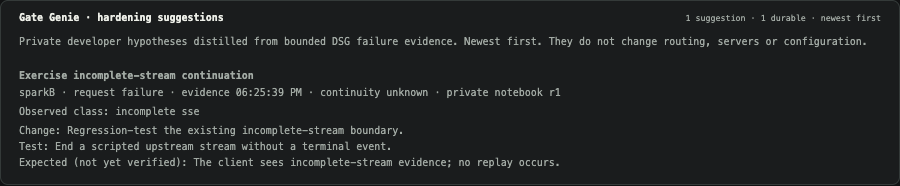
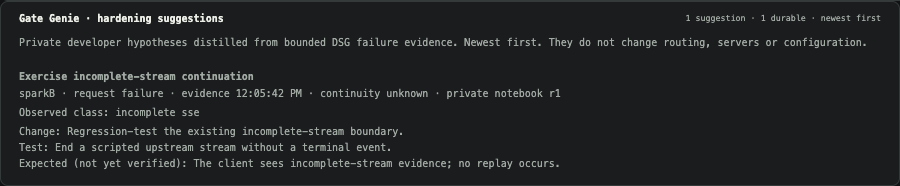
Move hardening suggestions into the Genie tab

diff --git a/ds4-gateway/ui/index.html b/ds4-gateway/ui/index.html
@@ -8,7 +8,6 @@
 <section id="health-wire" class="health-wire" aria-label="Gate Genie fleet health headlines" data-level="unknown">
 <div class="health-wire-window" tabindex="0" aria-label="Server health headlines; focus to pause scrolling" aria-live="off"><div id="health-wire-track" class="health-wire-track"><div id="health-wire-text" class="health-wire-group">Connecting to Gate Genie…</div><div id="health-wire-copy" class="health-wire-group" aria-hidden="true"></div></div></div>
 </section>
-<details id="genie-hardening" class="genie-hardening" hidden><summary><span>Gate Genie · hardening suggestions</span><small id="genie-hardening-status">No evidence-backed suggestions yet</small></summary><p class="muted">Private developer hypotheses distilled from bounded DSG failure evidence. Newest first. They do not change routing, servers or configuration.</p><div id="genie-hardening-items" aria-live="polite"></div></details>
 <section id="learning-milestones" class="learning-milestones" aria-labelledby="learning-milestones-title" hidden><h2 id="learning-milestones-title">Gate Genie · learning milestones</h2><p class="muted">Verified prediction improvements. Kept until dismissed; dismissing does not change the model.</p><div id="learning-milestone-items" aria-live="polite"></div></section>
 <nav class="workspace-tabs" role="tablist" aria-label="Dwarf Star Gate views">
 <button id="tab-fleet" type="button" role="tab" aria-selected="true" aria-controls="view-fleet" tabindex="0" data-workspace-tab="fleet">Fleet</button>
@@ -27,6 +26,7 @@
 </section>
 <section id="view-genie" class="workspace-view" role="tabpanel" aria-labelledby="tab-genie" data-workspace-view="genie" hidden>
 <section class="insights genie-insights"><article class="genie-panel"><h2>Gate Genie <small id="genie-mode">observation only</small></h2><p id="genie-status" role="status">Checking connection</p><div class="genie-controls"><button id="genie-toggle" class="button" type="button" disabled>Enable</button><select id="genie-source" aria-label="Gate Genie inference source" disabled><option value="primary">Dedicated preferred</option><option value="pool">DSG pool only</option></select><button id="genie-review" class="button" type="button" disabled>Review now</button></div><form id="genie-chat"><label for="genie-question">Ask about this fleet</label><div class="genie-controls"><input id="genie-question" maxlength="2000" placeholder="What should I investigate?" autocomplete="off"><button id="genie-send" type="submit" class="button" disabled>Ask</button></div></form><p class="muted">A configured Genie starts on and waits at least 5 minutes after one review finishes before starting another. A question takes priority over a routine review; an evidence-gated action review finishes first. If the dedicated provider fails or times out, one unpinned pool request may borrow any available DSG slot. Bounded recovery still requires its separate switch, and private notebook notes stay local.</p><section id="genie-action-ledger" class="genie-action-ledger" aria-labelledby="genie-action-ledger-title" title="Proven executor receipts and provider fallbacks only. Recovery and predictor history is durable; queue history is bounded; provider fallback covers this dashboard run."><div class="genie-ledger-heading"><div><h3 id="genie-action-ledger-title">Action ledger</h3><p id="genie-action-summary" class="muted">No evidenced Genie actions yet</p></div><label><span class="visually-hidden">Filter Gate Genie actions</span><select id="genie-action-filter" aria-label="Filter Gate Genie actions"><option value="all">All actions</option><option value="provider">Pool commandeering</option><option value="recovery">Recovery</option><option value="routing">Queue moves</option><option value="predictor">Predictor</option><option value="attention">Needs attention</option></select></label></div><ol id="genie-action-items" class="genie-action-items" tabindex="0" aria-label="Latest 30 available Genie actions, newest first"><li class="muted">Waiting for action evidence.</li></ol></section><div id="genie-reports" aria-live="polite"></div></article></section>
+<details id="genie-hardening" class="genie-hardening" hidden><summary><span>Gate Genie · hardening suggestions</span><small id="genie-hardening-status">No evidence-backed suggestions yet</small></summary><p class="muted">Private developer hypotheses distilled from bounded DSG failure evidence. Newest first. They do not change routing, servers or configuration.</p><div id="genie-hardening-items" aria-live="polite"></div></details>
 <section class="worker-management" aria-labelledby="recovery-title"><h2 id="recovery-title">DS4 service recovery</h2>
 <p class="muted"><a id="recovery-enrollment-guide" href="https://github.com/JordiPosthumus/dwarf-star-gate/blob/main/docs/agent-recovery-enrollment.md" target="_blank" rel="noopener noreferrer">Setup guide for your agent ↗</a> · Connecting an endpoint does not grant restart permission. Start with inspection and a proposal.</p>
 <p id="recovery-status" role="status">Checking recovery policy</p><div class="recovery-policy-controls"><button id="recovery-toggle" type="button" class="button" disabled>Enable automatic recovery</button><button id="recovery-handback-toggle" type="button" class="button" disabled>Disable verified profile hand-back</button></div><p>Opt-in, exactly enrolled services only. GG and the deterministic watcher share one guarded runner. One recovery at a time, one service action per failed instance or stopped epoch, 30-minute cooldown. Context, thinking, model and disk-cache settings stay unchanged. A service action loses RAM-resident caches.</p><p class="muted">Verified profile hand-back starts enabled, but remains dormant unless service recovery itself is enabled. It may adopt a repeatedly inspected changed profile only on the same enrolled machine/service, with no admitted work and either a proven replacement instance or current fatal evidence; generation and two cold-to-warm conversations must pass before readmission. A pause, named maintenance lock or agent hold always blocks it. Turning either policy off stops new automatic actions; an issued start or restart still finishes reconciliation and verification.</p><div id="recovery-workers"></div><div id="recovery-actions" aria-live="polite"></div></section>

diff --git a/docs/screenshots.md b/docs/screenshots.md
@@ -3,11 +3,12 @@
 Refreshed 2026-09-04 from the checked-in synthetic demo and current UI assets.
 Analytics refreshed 2026-09-05 to distinguish known sessions from requests with
 missing identity; the values remain fictional.
+Layout refreshed 2026-09-06: hardening suggestions now belong to the Gate Genie tab.
 These are actual browser captures of fictional data, not edited production
 screenshots, benchmark results, a live incident report or a promoted model.
 
-- `dashboard-overview.png`: branding, persistent health wire, compact cross-view
-  hardening notice, focused navigation, the single-row desktop fleet band, mixed-server
+- `dashboard-overview.png`: branding, persistent health wire, focused navigation,
+  the single-row desktop fleet band, mixed-server
   activity, aligned rounded speeds, requested thinking, compact synthetic RAM /
   GPU / POWER strips, the 12-hour fleet-speed and measured-energy pulse, and the ready Continuity Door
   contract. Detailed cache/session evidence is folded into each server card.
@@ -17,7 +18,8 @@ screenshots, benchmark results, a live incident report or a promoted model.
   Spark profile, 20,000-hour queue allowance, one synthetic exact queued-handover
   offer with its cache-locality warning, and a synthetic named maintenance lock
   whose exact release cannot resume routing by itself.
-- `dashboard-genie.png`: an open assessment, linked agent enrollment guide, recovery controls and the private
+- `dashboard-genie.png`: an open assessment, collapsible hardening suggestions below
+  the conversation, linked agent enrollment guide, recovery controls and the private
   Gate Genie notebook.
 - `dashboard-analytics.png`: local collection/embedding status, stage-specific XGB
   chart, candidate lifecycle, recipe selector, calibration skip status and cache

diff --git a/README.md b/README.md
@@ -133,8 +133,8 @@ routing authority unless it passes the independent holdout and future-traffic
 gates. [Calibration preflight](docs/calibration.md) skips without a proven
 cache-preserving path. An opt-in [persistent Genie notebook](docs/genie-memory.md)
 records worker-state changes, incident/recovery references, explicit operator
-notes and evidence-gated developer hardening suggestions. A compact notice above
-the focused views lists the newest suggestion first. Genie may describe a
+notes and evidence-gated developer hardening suggestions. A collapsible section
+below the conversation in the Gate Genie tab lists the newest suggestion first. Genie may describe a
 test or design improvement only for a deterministic, privacy-bounded failure
 candidate selected by DSG code; the suggestion is a hypothesis, cannot modify the
 gateway or servers and never includes inference content. It survives dashboard

diff --git a/WORKLOG.md b/WORKLOG.md
@@ -10,6 +10,10 @@ For unfinished work, see the [roadmap](docs/roadmap.md).
 
 ## Recent reliability and intelligence sprint — 2026-09-03 to 2026-09-06
 
+- **Moved hardening suggestions into Gate Genie.** Suggestions now sit below the
+  conversation in their existing collapsible section, freeing space above every
+  other tab. Newest-first ordering and saved notes retain their existing behavior.
+
 - **Started a separate causal-rate forecast study.** A new frozen candidate
   learns a correction to a prior per-token estimate and is compared with that
   same simple estimate on added coverage. The first later sample is small and

diff --git a/CHANGELOG.md b/CHANGELOG.md
@@ -1,5 +1,12 @@
 # Changelog
 
+## Keep hardening suggestions in the Gate Genie tab
+
+- Move the existing collapsible suggestions section below Genie's conversation,
+  removing its global row above the tabs. Keep stable element IDs and rendering.
+- Update layout and synthetic-browser checks for tab visibility, placement and
+  expansion state; refresh the affected dashboard captures and documentation.
+
 ## Bound the separate rate-normalized prefill study
 
 - Compare a learned rate correction with the same causal rate anchor, retaining
